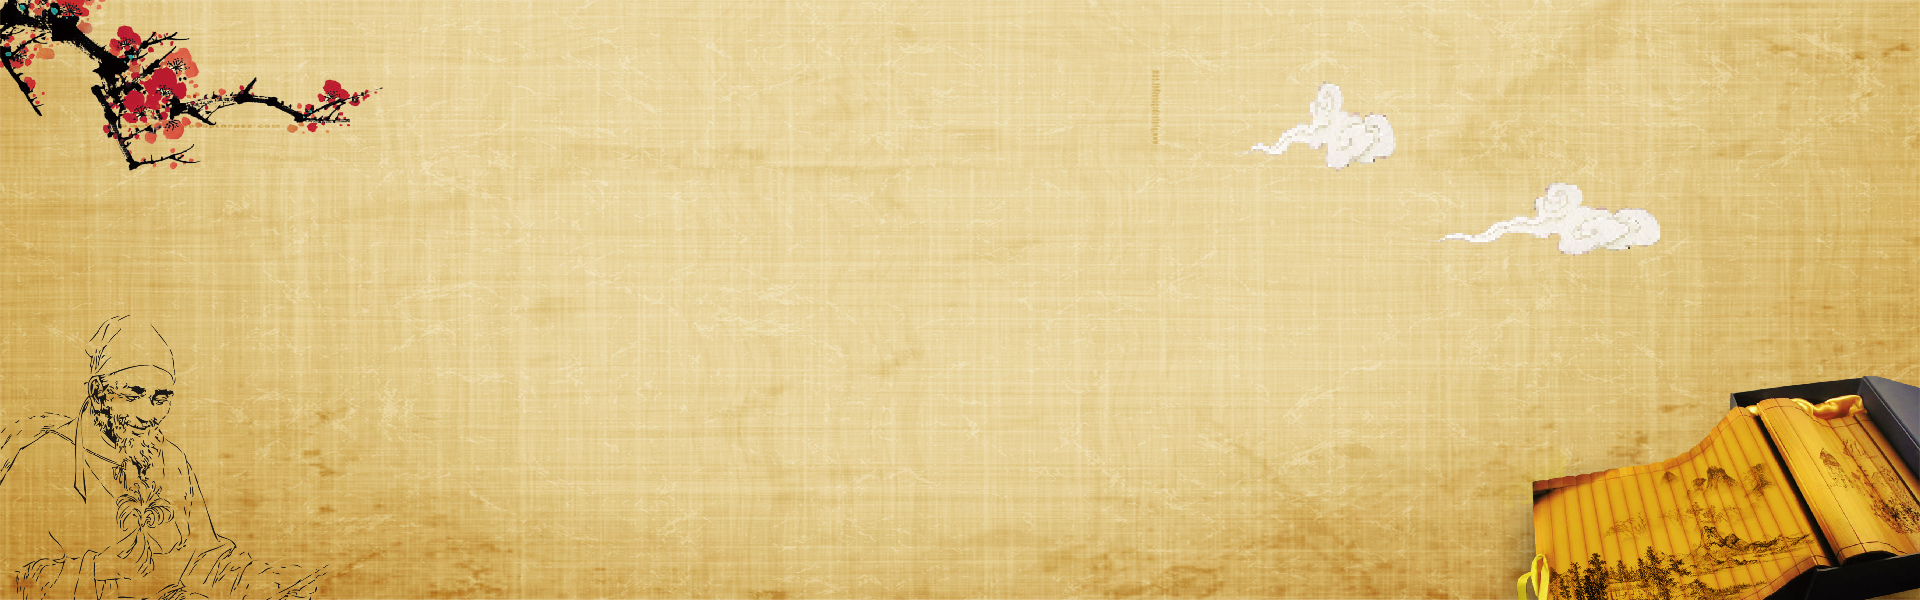
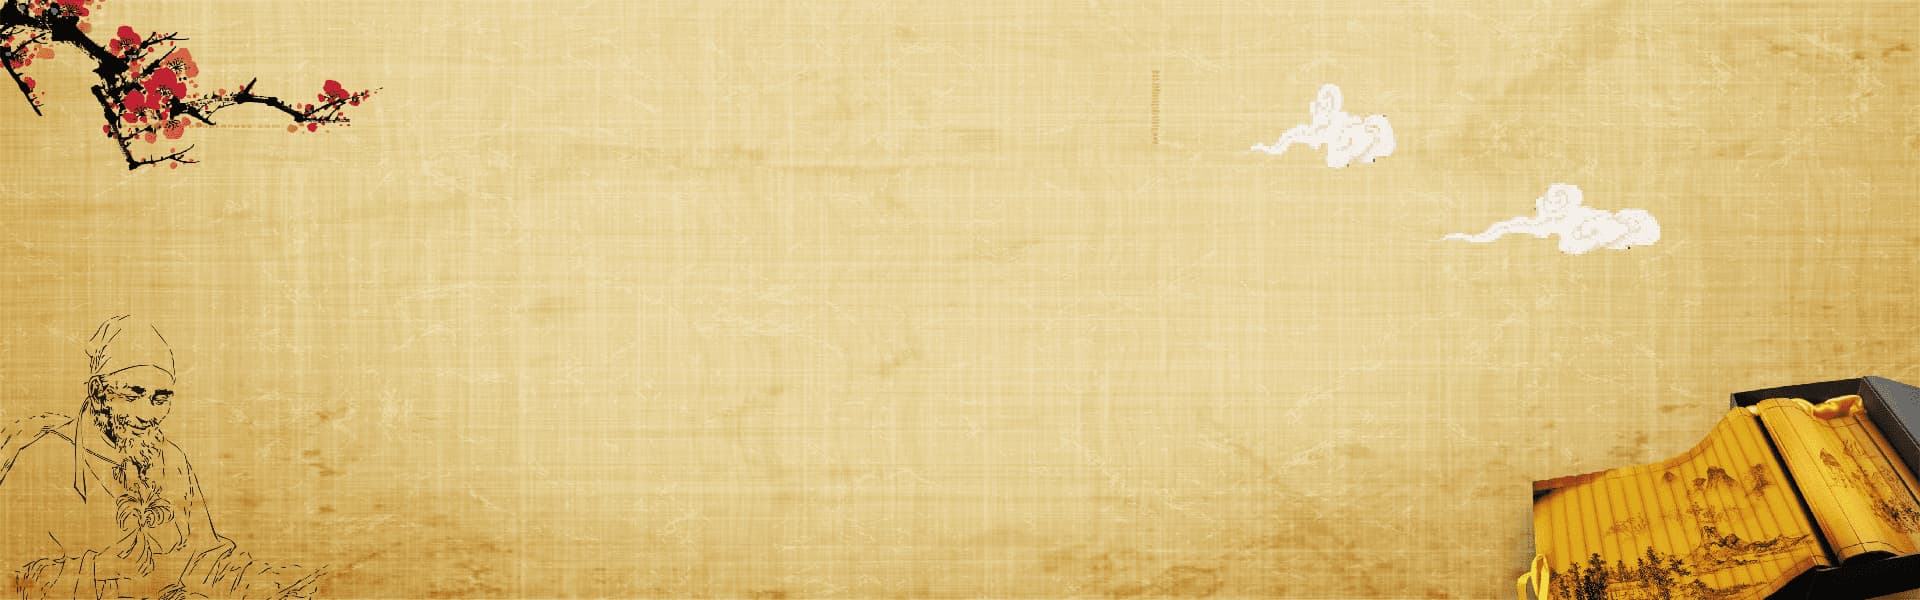
optimize image size

diff --git a/nuxt-front-end/components/navbar.vue b/nuxt-front-end/components/navbar.vue
@@ -2,7 +2,7 @@
   <header id="nav-bar">
     <nav class="navbar navbar-expand-md navbar-dark fixed-top bg-dark">
       <a href="/" class="navbar-brand" style="font-weight:  bolder;">
-        <img src="@/assets/Storelogo.png" width="34" height="34" />永盛堂中藥行
+        <img src="@/assets/Storelogo.webp" width="34" height="34" />永盛堂中藥行
       </a>
       <div id="shopping-cart">
         <router-link class="nav-link" to="/cart">

diff --git a/nuxt-front-end/nuxt.config.js b/nuxt-front-end/nuxt.config.js
@@ -80,7 +80,7 @@ module.exports = {
     devUrl: "http://localhost:8080",
     prodUrl:
       "http://ec2-52-74-212-171.ap-southeast-1.compute.amazonaws.com:8080",
-    devNuxtURL: "http://localhost:3000",
+    devNuxtURL: "http://localhost:3333",
     prodNuxtURL: "http://ec2-52-74-212-171.ap-southeast-1.compute.amazonaws.com"
   },
 

diff --git a/nuxt-front-end/pages/about.vue b/nuxt-front-end/pages/about.vue
@@ -142,7 +142,7 @@ export default {
 <style lang="scss" scoped>
 #banner {
   overflow: hidden;
-  background-image: url("../assets/bannerM.png");
+  background-image: url("../assets/bannerM.webp");
   height: 180px;
 }
 .bannerText {

diff --git a/nuxt-front-end/components/mainBanner.vue b/nuxt-front-end/components/mainBanner.vue
@@ -33,7 +33,7 @@ export default {
 }
 #banner {
   overflow: hidden;
-  background-image: url("~assets/bannerM.png");
+  background-image: url("~assets/bannerM.webp");
   height: 180px;
 }
 .bannerText {
